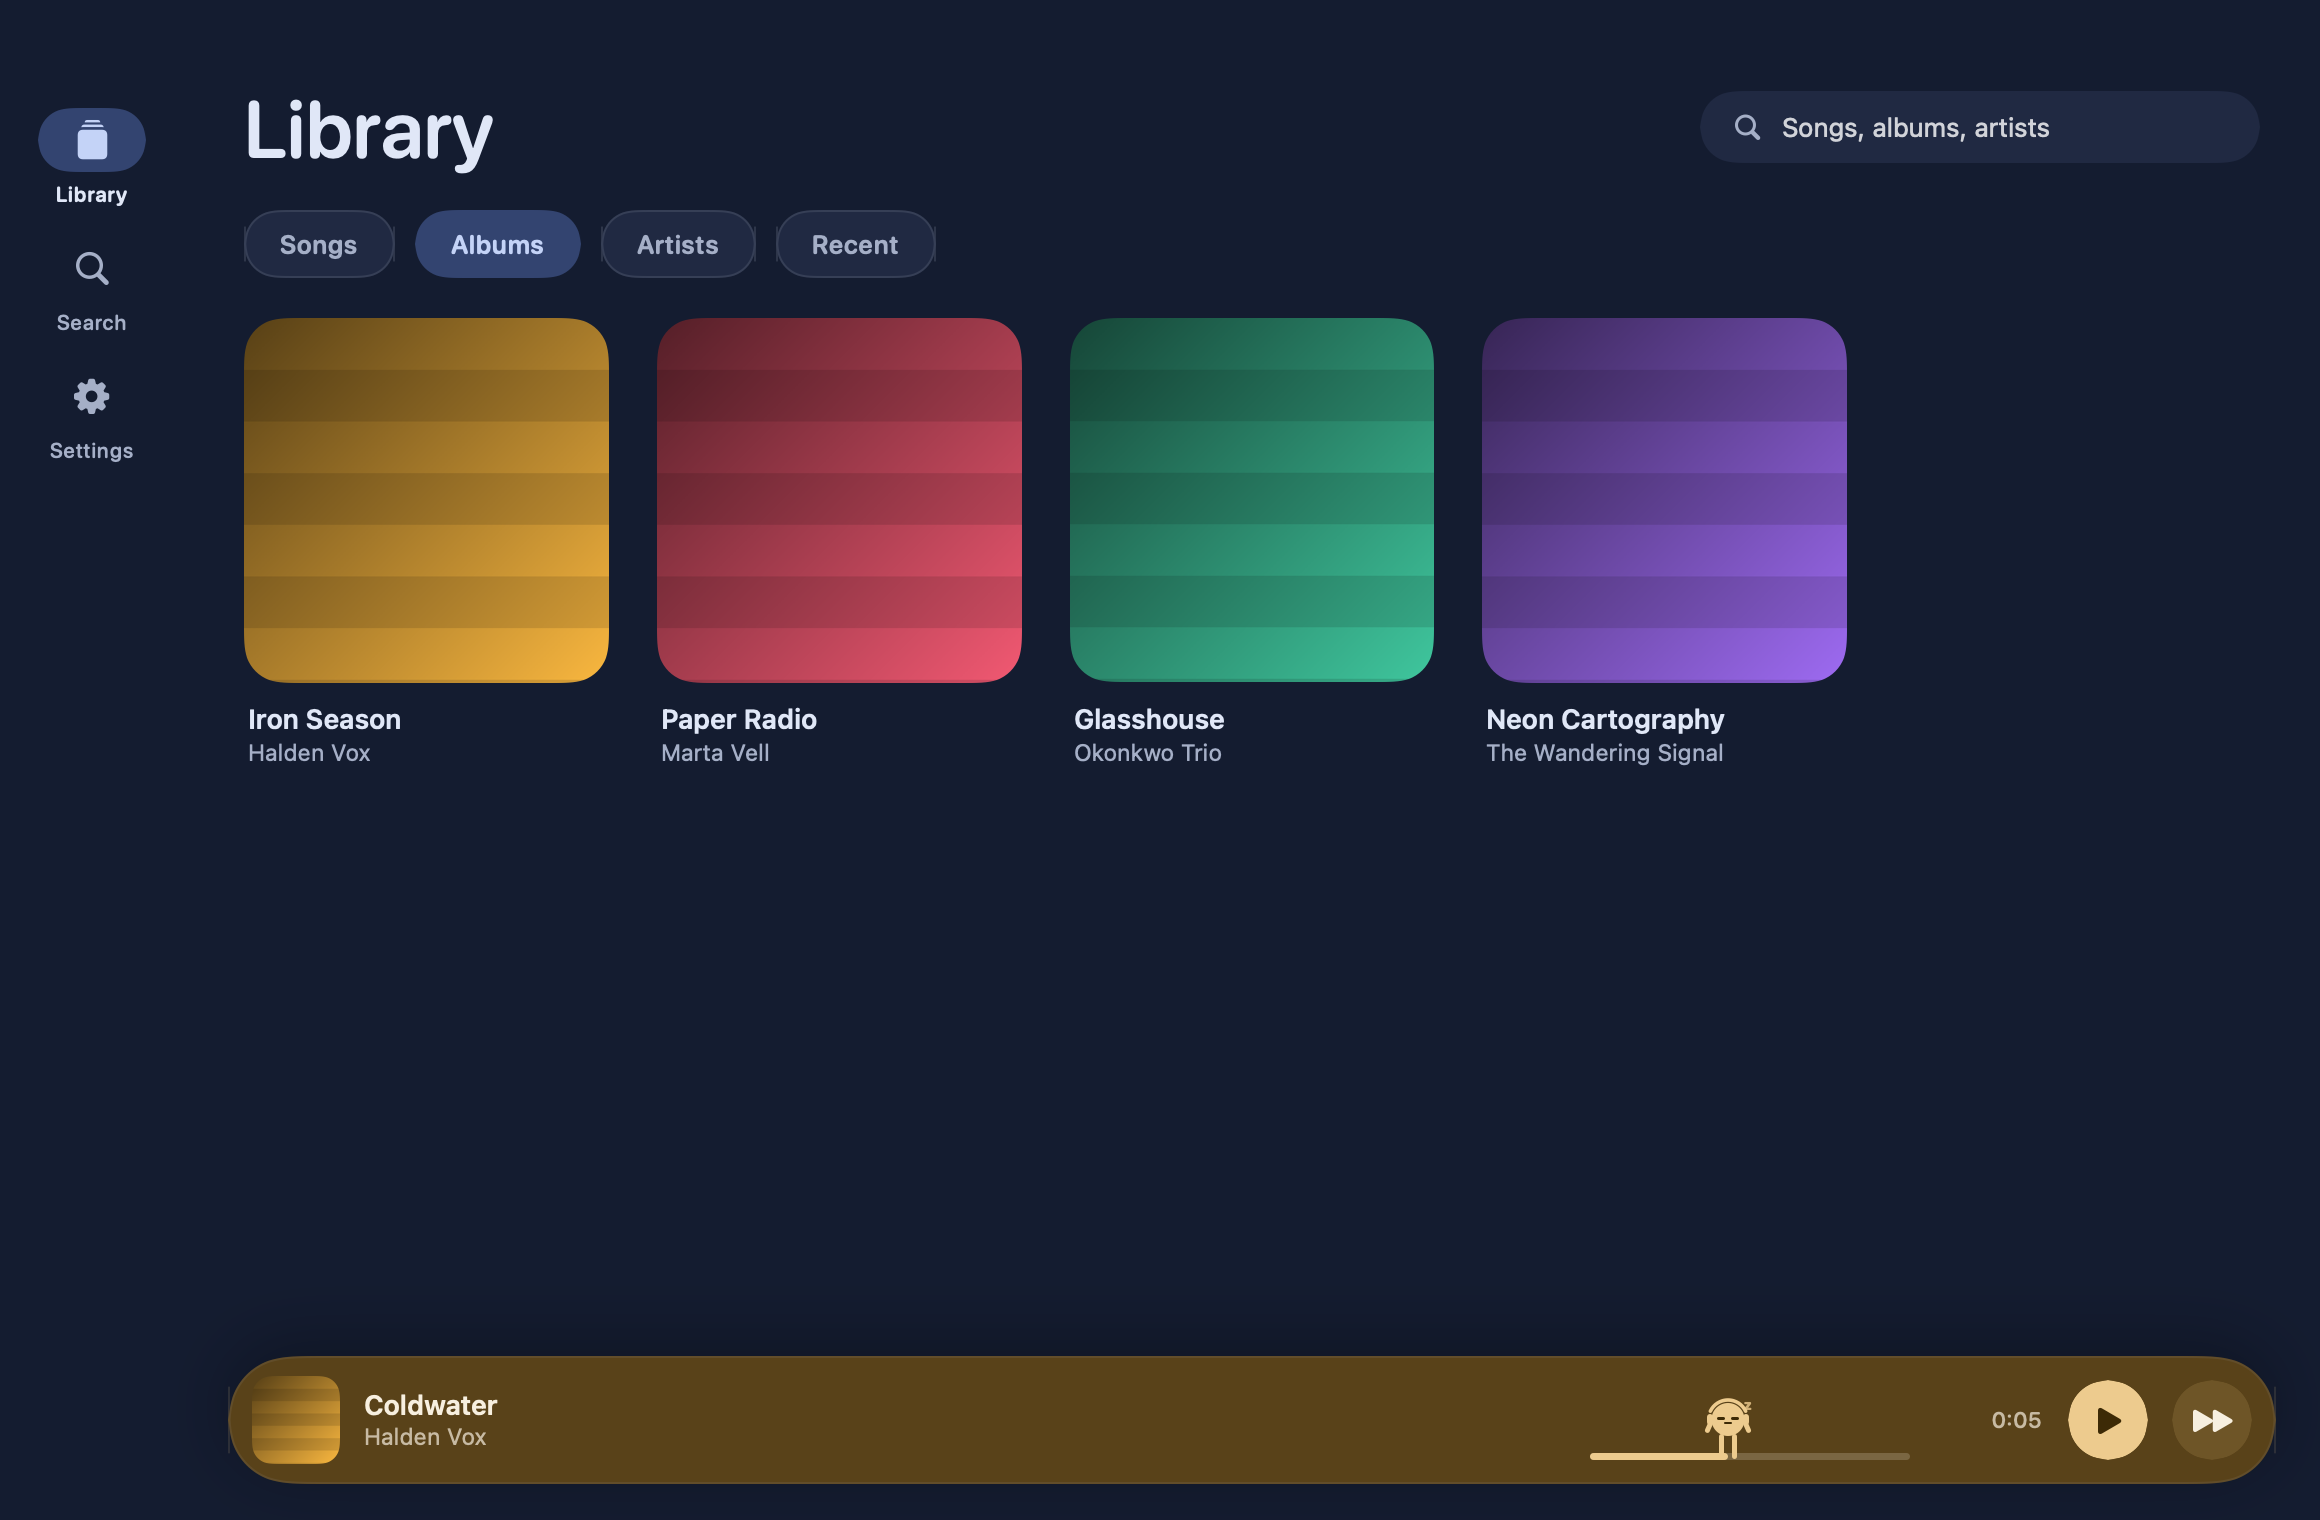
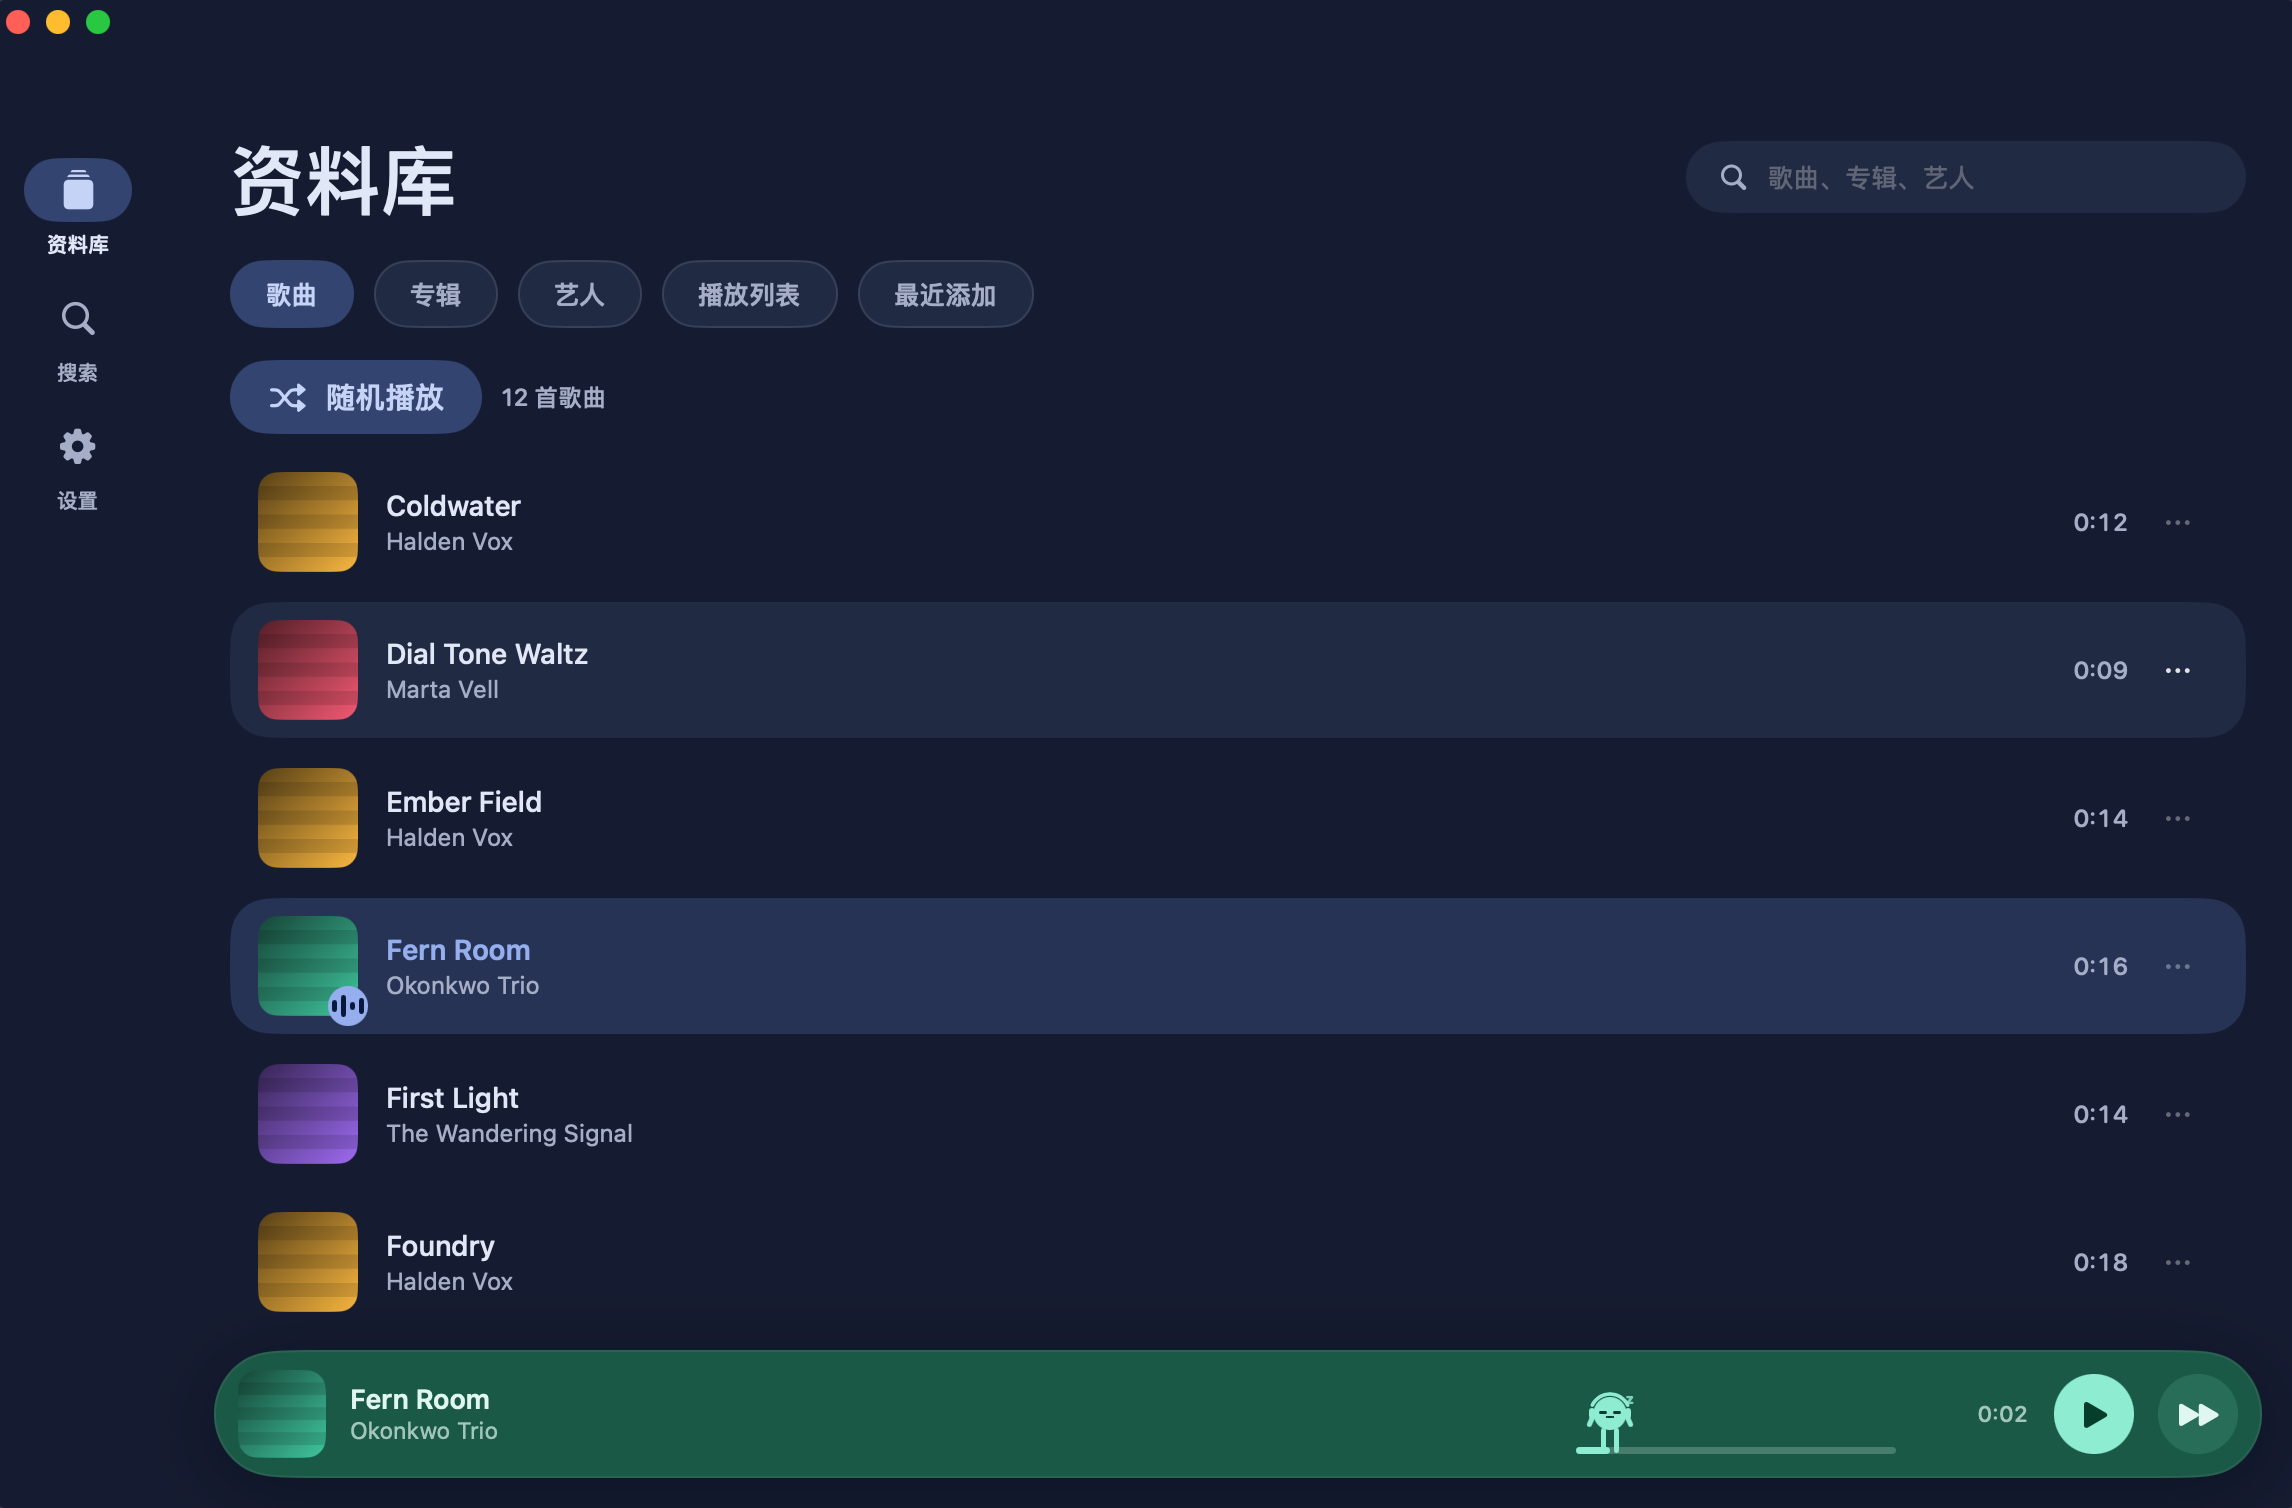
Refresh README screenshots for the bilingual, bit-perfect build
Replace the original project screenshots with current ones: the macOS
library, audio-chain panel, equalizer, and output/exclusive settings,
plus four iPhone screens (now playing, audio chain, library, settings).
All shots show the synthetic demo library; UI is Simplified Chinese.

diff --git a/README.md b/README.md
@@ -72,19 +72,32 @@ FLAC headers itself, and plays the files where they sit.
 
 ## Screenshots
 
-| Now Playing | Album |
+**macOS**
+
+![Library](docs/screenshots/library-dark.png)
+
+| Audio chain · bit-perfect | Equalizer |
 |---|---|
-| ![Now Playing](docs/screenshots/now-playing.png) | ![Album](docs/screenshots/album.png) |
+| ![Audio chain](docs/screenshots/audio-chain.png) | ![Equalizer](docs/screenshots/equalizer.png) |
 
-| Equalizer | Playlists |
+| Output devices & exclusive mode | Settings — language & appearance |
 |---|---|
-| ![Equalizer](docs/screenshots/equalizer.png) | ![Playlists](docs/screenshots/playlists.png) |
+| ![Output](docs/screenshots/settings-output.png) | ![Settings](docs/screenshots/settings.png) |
 
-![Light mode](docs/screenshots/library-light.png)
+**iOS**
 
-*Screenshots use the synthetic demo library generated by
-`Tools/make-demo-library.py` — the audio and cover art are procedurally generated, not
-anyone's actual music.*
+| Now playing | Audio chain |
+|---|---|
+| ![Now playing](docs/screenshots/ios-now-playing.png) | ![Audio chain](docs/screenshots/ios-audio-chain.png) |
+
+| Library | Settings |
+|---|---|
+| ![Library](docs/screenshots/ios-library.png) | ![Settings](docs/screenshots/ios-settings.png) |
+
+*Screenshots show the synthetic demo library generated by `Tools/make-demo-library.py` —
+the audio and cover art are procedurally generated, not anyone's actual music.
+界面为简体中文；Aria ships in English and Simplified Chinese — switch any time in
+Settings › Language / 设置 › 语言.*
 
 ## Quick start
 
